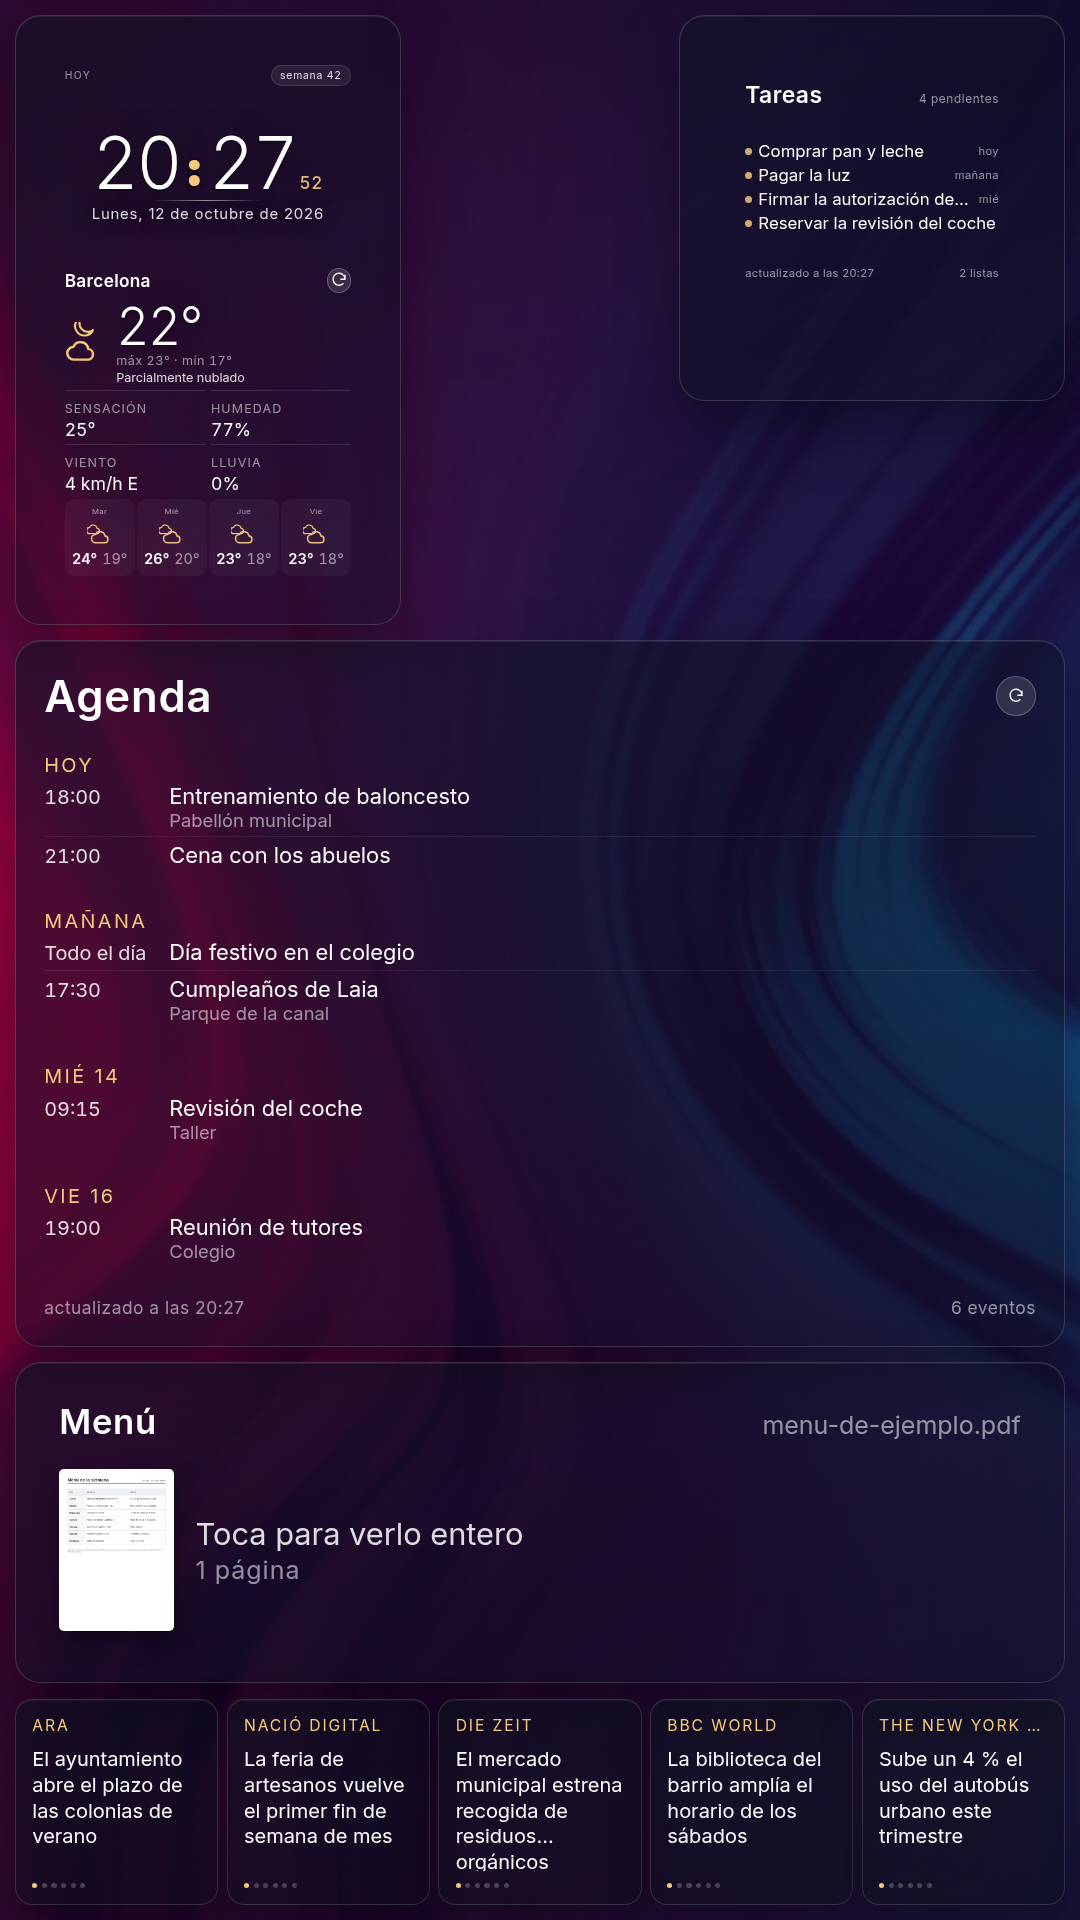
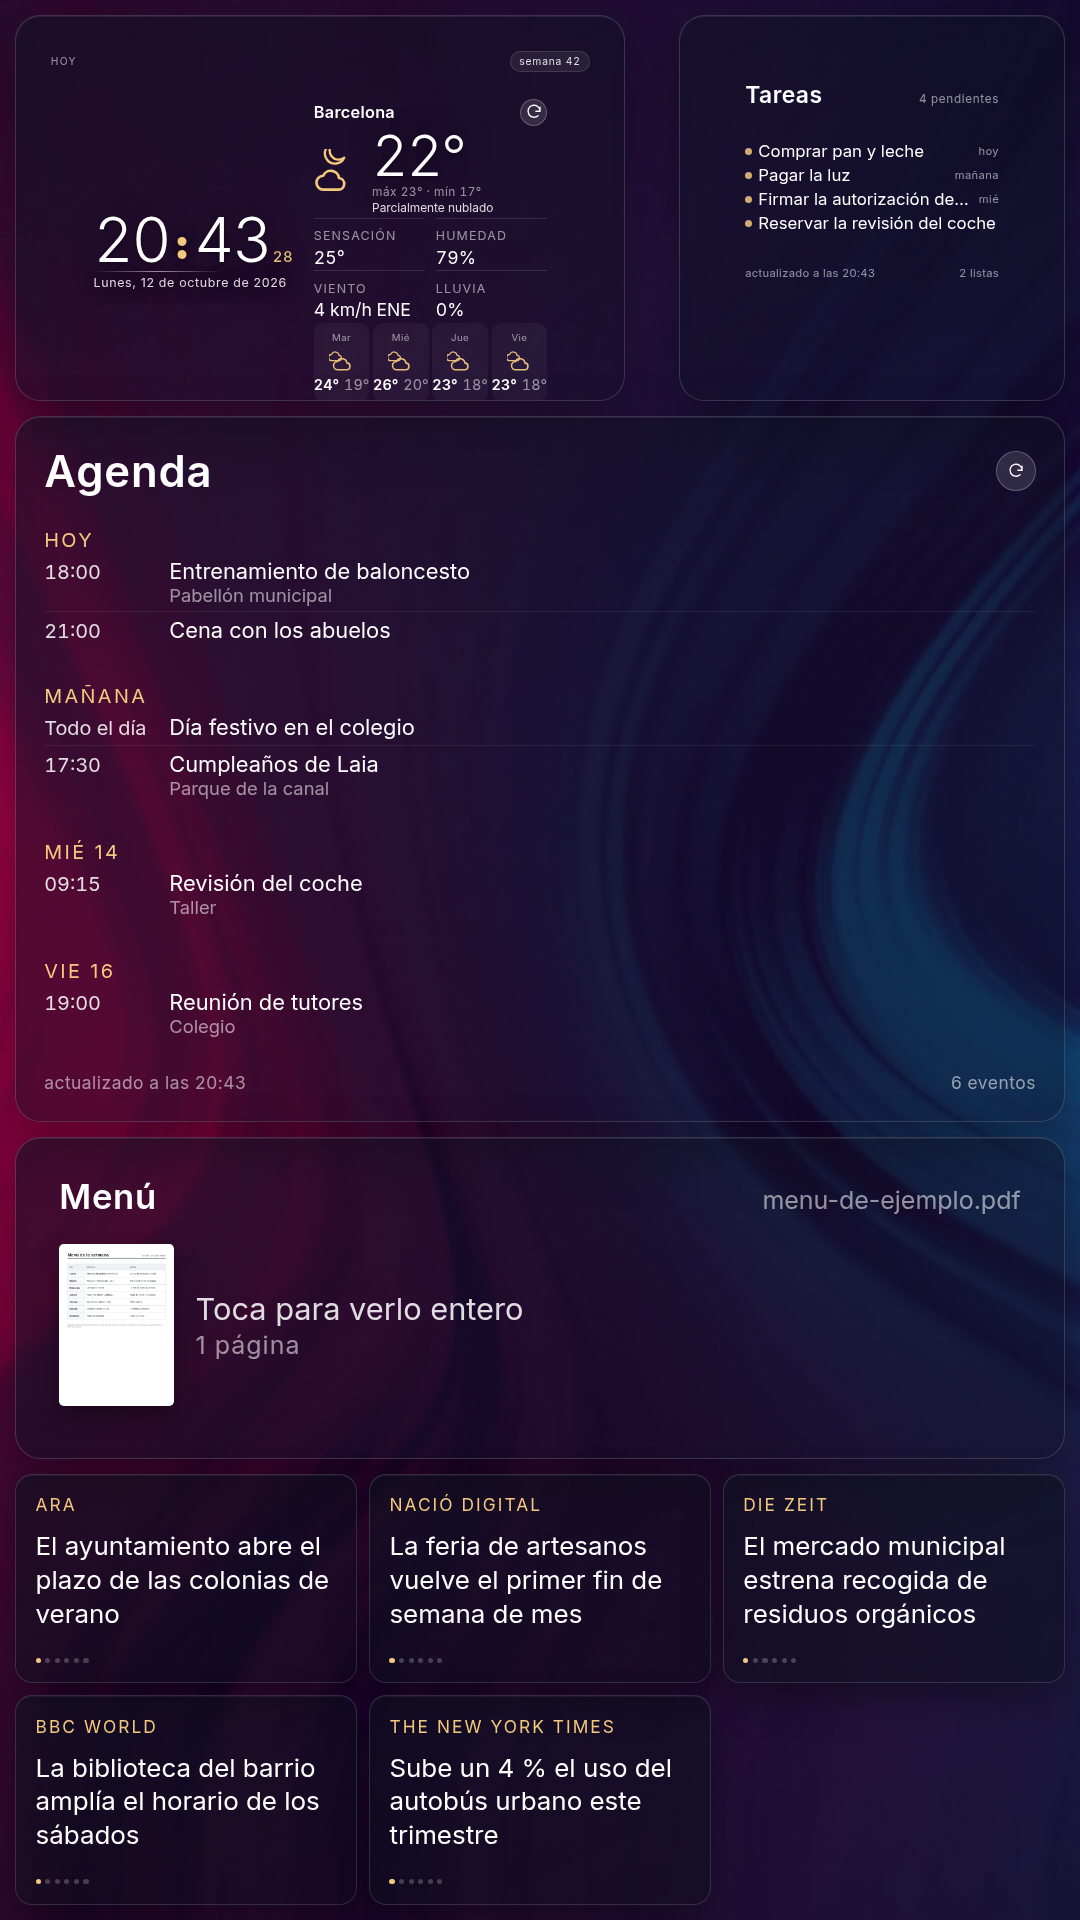
fix(layout): la tarjeta de la hora y el tiempo va apaisada (19 ancho x 12 alto)
Estaba al revés: la puse de 12 cm de ancho por 19 de alto, y tenía que ser 19 de ancho
por 12 de alto. Ahora el reloj va a la izquierda y el tiempo a la derecha, que es lo
que permite una tarjeta ancha; el detalle (sensación, humedad, viento, lluvia) y la
previsión siguen ahí, con cuatro días en la franja porque siete en esa columna se
pisaban.

De paso, como las dos tarjetas de arriba miden ahora 12 cm de alto, la fila queda a
ras: el hueco entre ellas pasa de 278 px a 54. Y la franja de titulares recupera el
alto que había perdido (de 206 a 431 px), así que vuelve a ir en dos columnas y con la
letra más grande.

Y las cadencias de refresco, pedidas tal cual:

| Dato         | Caché del servidor | Refresco del panel |
|--------------|--------------------|--------------------|
| Calendario   | 2 min              | 2 min              |
| Tareas       | 2 min              | 2 min              |
| Tiempo       | 15 min             | 15 min             |
| Noticias     | 15 min             | 15 min             |
| Menú (PDF)   | 5 min              | 5 min              |

Las dos columnas van a la par a propósito: si el panel pide cada 15 minutos y la caché
dura 2, la mitad de las peticiones no traen nada nuevo; y al revés, el panel enseñaría
datos viejos teniendo el backend frescos. Los titulares de cada tarjeta siguen rotando
cada 10 s, que es cosa aparte. Comprobado en la base de datos de la Pi tras desplegar:
[…]

diff --git a/src/App.css b/src/App.css
@@ -21,8 +21,8 @@
   position: fixed;
   inset: 0;
   display: grid;
-  grid-template-columns: var(--cm12) minmax(0, 1fr) var(--cm12);
-  grid-template-rows: var(--cm19) var(--cm22) var(--cm10) minmax(0, 1fr);
+  grid-template-columns: var(--cm19) minmax(0, 1fr) var(--cm12);
+  grid-template-rows: var(--cm12) var(--cm22) var(--cm10) minmax(0, 1fr);
   grid-template-areas:
     'now . tasks'
     'calendar calendar calendar'
@@ -1023,49 +1023,59 @@
   }
 }
 
-/* ---------------------------------------------------------------------------
-   Vertical (la pantalla de la Pi). Las dos tarjetas de arriba son cuadradas y
-   miden 12×12 cm, así que su contenido se mide con unidades de contenedor
-   (cqw/cqh): el reloj y las tareas quedan igual de bien a cualquier tamaño, sin
-   depender de la resolución de la pantalla.
---------------------------------------------------------------------------- */
-
+/* La tarjeta de la hora y el tiempo mide 19 cm de ancho por 12 de alto, o sea
+   apaisada: el reloj va a la izquierda y el tiempo a la derecha (uno debajo del
+   otro no caben en 12 cm). El contenido se dimensiona con unidades de contenedor
+   (cqw/cqh), así que no depende de la pantalla sino de la tarjeta. */
 .widget--now {
   container-type: size;
-  width: var(--cm12);
-  height: var(--cm19);
+  width: var(--cm19);
+  height: var(--cm12);
   justify-content: space-between;
-  gap: 0;
-  padding: 4.5cqw;
+  gap: 1.4cqh;
+  padding: 3.2cqw;
   text-align: left;
   overflow: hidden;
 }
 
-.now__label,
-.now__week {
-  font-size: 3.6cqw;
+.now__body {
+  flex: 1;
+  min-height: 0;
+  display: grid;
+  grid-template-columns: minmax(0, 1fr) minmax(0, 1.16fr);
+  gap: 3.6cqw;
+  align-items: center;
 }
 
-.clock {
-  gap: 1.2cqw;
+.now__label,
+.now__week {
+  font-size: 1.9cqw;
+}
+
+/* --- izquierda: el reloj --- */
+.widget--now .clock {
+  align-items: flex-start;
+  text-align: left;
+  gap: 0.9cqh;
 }
 
 .clock__time {
-  font-size: 25cqw;
+  font-size: 11.5cqw;
 }
 
 .clock__rule {
-  width: 38cqw;
+  width: 24cqw;
 }
 
 .clock__date {
-  font-size: 5.2cqw;
+  font-size: 2.3cqw;
 }
 
-/* La tarjeta mide 12×19 cm, así que el tiempo vuelve a enseñarlo todo: el
-   detalle (sensación, humedad, viento…) y la previsión de los próximos días. */
+/* --- derecha: el tiempo, con su detalle y la previsión --- */
 .widget--now .weather {
-  gap: 1.6cqw;
+  height: 100%;
+  justify-content: space-between;
+  gap: 0.9cqh;
 }
 
 .widget--now .weather__head {
@@ -1074,56 +1084,56 @@
 }
 
 .widget--now .weather__place {
-  font-size: 6cqw;
+  font-size: 3cqw;
 }
 
 .widget--now .weather__refresh {
-  width: 8.5cqw;
-  height: 8.5cqw;
+  width: 5cqw;
+  height: 5cqw;
 }
 
 .widget--now .weather__hero {
-  gap: 3cqw;
-  margin-top: 1.5cqw;
+  gap: 2.2cqw;
+  margin-top: 0;
 }
 
 .widget--now .weather__icon {
-  width: 15cqw;
+  width: 8.6cqw;
 }
 
 .widget--now .weather__value {
-  font-size: 18cqw;
+  font-size: 10.4cqw;
 }
 
 .widget--now .weather__extreme,
 .widget--now .weather__condition {
-  font-size: 4.4cqw;
+  font-size: 2.2cqw;
 }
 
 .widget--now .weather__details {
   grid-template-columns: repeat(2, minmax(0, 1fr));
-  gap: 1.6cqw 2.2cqw;
+  gap: 0.9cqh 2cqw;
 }
 
 .widget--now .weather__detail-term,
 .widget--now .weather__detail-value {
-  font-size: 3.1cqw;
+  font-size: 2cqw;
 }
 
 .widget--now .weather__daily {
-  gap: 0.8cqw;
+  gap: 0.7cqw;
 }
 
 .widget--now .weather__day-name,
 .widget--now .weather__day-value {
-  font-size: 2.7cqw;
+  font-size: 1.8cqw;
 }
 
 .widget--now .weather__day-icon {
-  width: 8.5cqw;
+  width: 5.6cqw;
 }
 
-/* Y solo cuatro días: con siete, en 12 cm de ancho los números se pisaban. */
+/* Cuatro días de previsión: siete en esta columna se pisaban unos con otros. */
 .widget--now .weather__day:nth-child(n + 5) {
   display: none;
 }
@@ -1244,26 +1254,27 @@
   font-size: 2.6cqw;
 }
 
-/* Los titulares se reparten lo que queda: con 19 + 22 + 10 cm por delante, la
-   franja se queda en unos 200 px, así que van todos en una fila. */
+/* Los titulares se reparten lo que queda: con 12 + 22 + 10 cm por delante les
+   quedan unos 430 px de alto, así que vuelven a ir en dos columnas y con la letra
+   más grande. */
 .news-strip {
-  gap: 0.8vmin;
-  grid-template-columns: repeat(var(--news-cols, 4), minmax(0, 1fr));
+  gap: 1.1vmin;
+  grid-template-columns: repeat(var(--news-cols, 2), minmax(0, 1fr));
 }
 
 .news {
-  gap: 1.1vmin;
-  padding: 1.5vmin;
+  gap: 1.3vmin;
+  padding: 1.8vmin;
 }
 
 .news__source {
-  font-size: 1.45vmin;
+  font-size: 1.6vmin;
 }
 
 .news__title {
-  font-size: 1.85vmin;
+  font-size: 2.4vmin;
   line-height: 1.3;
-  -webkit-line-clamp: 4;
+  -webkit-line-clamp: 3;
 }
 
 @media (orientation: landscape) {

diff --git a/server/src/config.ts b/server/src/config.ts
@@ -20,17 +20,17 @@ export const DB_PATH =
 export const DATA_DIR = path.dirname(DB_PATH)
 
 /** Cuánto vale una respuesta de Open-Meteo antes de volver a pedirla. */
-export const WEATHER_TTL_MS = Number(process.env.WEATHER_TTL_MS ?? 10 * 60 * 1000)
+export const WEATHER_TTL_MS = Number(process.env.WEATHER_TTL_MS ?? 15 * 60 * 1000)
 
 /** Cuántos días de calendario se piden. */
 export const CALENDAR_DAYS = Number(process.env.CALENDAR_DAYS ?? 7)
 
 /** Caché de calendario y tareas (Google aguanta bien, pero no hace falta ir cada vez). */
-export const CALENDAR_TTL_MS = Number(process.env.CALENDAR_TTL_MS ?? 5 * 60 * 1000)
-export const TASKS_TTL_MS = Number(process.env.TASKS_TTL_MS ?? 5 * 60 * 1000)
+export const CALENDAR_TTL_MS = Number(process.env.CALENDAR_TTL_MS ?? 2 * 60 * 1000)
+export const TASKS_TTL_MS = Number(process.env.TASKS_TTL_MS ?? 2 * 60 * 1000)
 
 /** Los feeds de noticias cambian, pero no tanto: veinte minutos va sobrado. */
-export const NEWS_TTL_MS = Number(process.env.NEWS_TTL_MS ?? 20 * 60 * 1000)
+export const NEWS_TTL_MS = Number(process.env.NEWS_TTL_MS ?? 15 * 60 * 1000)
 
 /** Titulares que se guardan por fuente (la pantalla enseña uno cada vez). */
 export const NEWS_ITEMS_PER_SOURCE = Number(process.env.NEWS_ITEMS_PER_SOURCE ?? 8)
@@ -69,7 +69,7 @@ export interface PdfSource {
 }
 
 /** Cada cuánto se vuelve a mirar si el PDF ha cambiado. */
-export const PDF_TTL_MS = Number(process.env.PDF_TTL_MS ?? 10 * 60 * 1000)
+export const PDF_TTL_MS = Number(process.env.PDF_TTL_MS ?? 5 * 60 * 1000)
 
 /** Ancho al que se rasterizan las páginas: de sobra para verlas a pantalla completa. */
 export const PDF_RENDER_WIDTH = Number(process.env.PDF_RENDER_WIDTH ?? 1500)

diff --git a/src/config.ts b/src/config.ts
@@ -9,17 +9,17 @@ export const APP_NAME = 'Family Dashboard'
 /** UI language used for dates and (later) the rest of the dashboard. */
 export const LOCALE = 'es-ES'
 
-/** Cada cuánto se le vuelve a pedir el tiempo al backend (el backend cachea 10 min). */
-export const WEATHER_REFRESH_MS = 10 * 60 * 1000
+/** Cada cuánto se le vuelve a pedir el tiempo al backend (que cachea 15 min). */
+export const WEATHER_REFRESH_MS = 15 * 60 * 1000
 
-/** Cada cuánto se refresca la agenda (el backend cachea 5 min). */
-export const AGENDA_REFRESH_MS = 5 * 60 * 1000
+/** Cada cuánto se refresca la agenda —calendario y tareas— (cachea 2 min). */
+export const AGENDA_REFRESH_MS = 2 * 60 * 1000
 
 /** Cuántos días de calendario pide el panel. */
 export const AGENDA_DAYS = 7
 
-/** Cada cuánto se le vuelven a pedir los titulares al backend (que cachea 20 min). */
-export const NEWS_REFRESH_MS = 10 * 60 * 1000
+/** Cada cuánto se le vuelven a pedir los titulares al backend (que cachea 15 min). */
+export const NEWS_REFRESH_MS = 15 * 60 * 1000
 
 /** Cada cuánto cambia el titular que enseña cada fuente de la franja de noticias. */
 export const NEWS_ROTATE_MS = 10 * 1000

diff --git a/src/components/NewsStrip.tsx b/src/components/NewsStrip.tsx
@@ -11,9 +11,9 @@ export function NewsStrip({ state }: { state: NewsState }) {
   const feeds = state.data?.feeds ?? []
   if (feeds.length === 0) return null
 
-  // La franja se queda en lo que dejan los 19 + 22 + 10 cm (unos 200 px de alto),
-  // así que todas las fuentes van en una fila y la rejilla reparte el ancho.
-  const columns = Math.min(feeds.length, 5)
+  // Con dos fuentes o menos, una columna; con tres o cuatro, dos; con más, tres.
+  // (La franja es alta otra vez, así que dos columnas de titulares grandes.)
+  const columns = feeds.length <= 2 ? feeds.length : feeds.length <= 4 ? 2 : 3
 
   return (
     <ul

diff --git a/src/components/NowWidget.tsx b/src/components/NowWidget.tsx
@@ -21,8 +21,11 @@ export function NowWidget({ now, weather }: NowWidgetProps) {
         <span className="now__week">semana {getIsoWeek(now)}</span>
       </header>
 
-      <ClockWidget now={now} />
-      <WeatherWidget state={weather} />
+      {/* La tarjeta es ancha (19 cm): el reloj a la izquierda, el tiempo a la derecha. */}
+      <div className="now__body">
+        <ClockWidget now={now} />
+        <WeatherWidget state={weather} />
+      </div>
     </section>
   )
 }

diff --git a/README.md b/README.md
@@ -102,7 +102,7 @@ vez). Los puntitos dicen por cuál va, de los ocho que guarda de cada feed.
 - **Las fuentes se configuran** con `PUT /api/settings` y viven en la base de datos
   del dispositivo, no en el código: el repositorio no lleva los medios de ninguna
   casa, y cambiar de fuentes no es tocar código.
-- **Una caché por fuente** (20 minutos): si un medio se cae, esa tarjeta lo dice en
+- **Una caché por fuente** (15 minutos): si un medio se cae, esa tarjeta lo dice en
   rojo y las otras cuatro siguen con sus titulares; si ya había titulares guardados,
   enseña los últimos buenos en vez de vaciarse.
 - Los titulares **no son enlaces** a propósito: en el kiosco, un toque dejaría el
@@ -155,13 +155,13 @@ centímetro** (`--cm` en `App.css`).
 
 Las dos tarjetas cuadradas miden su contenido con **unidades de contenedor**
 (`cqw`/`cqh`): el reloj se ve igual de grande a cualquier resolución, porque no
-depende de la pantalla sino de la tarjeta. Con 12 cm de alto, dentro solo cabía lo
-esencial (la hora, la fecha y el tiempo de ahora); **en la fase 8 la tarjeta creció a
-12 × 19 cm y volvieron la previsión y el detalle**. Las medidas de la tabla también se
-revisaron en la fase 8.
+depende de la pantalla sino de la tarjeta. A 12 cm de alto dentro solo cabía lo
+esencial (la hora, la fecha y el tiempo de ahora); **en la fase 8 la tarjeta pasó a ser
+apaisada (19 × 12 cm) y volvieron la previsión y el detalle**. Las medidas de la tabla
+también se revisaron en la fase 8.
 
-En apaisado las medidas físicas no caben (12 + 10 cm se comen los 1080 de alto), así
-que la unidad se encoge y las tarjetas vuelven a medir lo que piden sus contenidos.
+En apaisado las medidas físicas no caben (12 + 22 + 10 cm se comen los 1080 de alto),
+así que la unidad se encoge y las tarjetas vuelven a medir lo que piden sus contenidos.
 
 ### Fase 8 — fondo de vídeo y medidas nuevas ✅
 
@@ -188,19 +188,21 @@ día va justa, lo primero que hay que bajar es el tamaño del vídeo.
 
 El reparto cambia de medidas:
 
-| Zona | Fase 7 | Fase 8 |
-|------|--------|--------|
-| Hora y tiempo | 12 × 12 cm | **12 × 19 cm** |
+| Zona | Fase 7 | Fase 8 (final) |
+|------|--------|----------------|
+| Hora y tiempo | 12 × 12 cm | **19 cm de ancho × 12 de alto** |
 | Tareas | 12 × 12 cm | 12 × 12 cm (pegada arriba) |
 | Agenda | ancho completo, alto del contenido | ancho completo, **22 cm** |
 | Menú (el PDF) | ancho de la agenda × 10 cm | igual |
-| Titulares | lo que queda | lo que queda (unos 200 px, **todos en una fila**) |
+| Titulares | lo que queda | lo que queda (unos 430 px, **dos columnas**) |
 
-Con 19 cm de alto, la tarjeta del tiempo vuelve a enseñar lo que a 12 cm no cabía: el
-detalle (sensación, humedad, viento, lluvia) y la previsión de los próximos días —
-**cuatro días**, porque siete en 12 cm de ancho se pisaban unos a otros. Y la agenda,
-al ser tan alta, reparte sus días por todo el alto para no quedarse medio vacía en una
-semana tranquila.
+La tarjeta de la hora y el tiempo acabó **apaisada** (19 × 12), no alta: el reloj va a la
+izquierda y el tiempo a la derecha. Al ser ancha, el tiempo vuelve a enseñar lo que a
+12 cm no cabía —el detalle (sensación, humedad, viento, lluvia) y la previsión de los
+próximos días—, con **cuatro días** en la franja: siete en esa columna se pisaban unos
+a otros. Y como las dos tarjetas de arriba miden 12 cm de alto, la fila queda a ras y el
+hueco que antes sobraba entre ellas (278 px) se queda en 54. La agenda, al ser tan alta,
+reparte sus días por todo el alto para no quedarse medio vacía en una semana tranquila.
 
 ---
 
@@ -316,9 +318,22 @@ la tarjeta para escribir *"actualizado a las 14:48"* o *"sin conexión"*.
 `data/dashboard.sqlite` (WAL), con migraciones versionadas al arrancar:
 
 - `cache(key, payload, source, fetched_at, expires_at)` — respuestas de APIs con
-  su caducidad. TTL: meteo **10 minutos** (`WEATHER_TTL_MS`), calendario y tareas
-  **5 minutos** (`CALENDAR_TTL_MS`, `TASKS_TTL_MS`) y noticias **20 minutos**
-  (`NEWS_TTL_MS`), con una entrada por fuente.
+  su caducidad, con una entrada por fuente de noticias. Las cadencias están en
+  `server/src/config.ts` y el panel las pide a juego desde `src/config.ts`:
+
+  | Dato | Caché en el servidor | Cada cuánto lo pide el panel |
+  |------|----------------------|------------------------------|
+  | Calendario | 2 min (`CALENDAR_TTL_MS`) | 2 min (`AGENDA_REFRESH_MS`) |
+  | Tareas | 2 min (`TASKS_TTL_MS`) | 2 min (el mismo temporizador) |
+  | Tiempo | 15 min (`WEATHER_TTL_MS`) | 15 min (`WEATHER_REFRESH_MS`) |
+  | Noticias | 15 min (`NEWS_TTL_MS`) | 15 min (`NEWS_REFRESH_MS`) |
+  | Menú (PDF) | 5 min (`PDF_TTL_MS`) | 5 min (`PDF_REFRESH_MS`) |
+
+  Las dos columnas van a la par a propósito: si el panel pide cada 15 minutos y la
+  caché dura 2, la mitad de las peticiones no traen nada nuevo; y al revés, el panel
+  enseñaría datos viejos teniendo el backend frescos. También se relee al volver a
+  estar visible o en línea. Los titulares de cada tarjeta **rotan cada 10 s**
+  (`NEWS_ROTATE_MS`), que es cosa aparte del refresco.
 - `settings(key, value, updated_at)` — la localidad del tiempo (`weather.place`),
   las fuentes de noticias (`news.sources`) y de dónde sale el PDF (`pdf.source`).
   Las tres cosas viven aquí y no en el código: cada casa pone las suyas.
@@ -350,7 +365,7 @@ curl -X PUT -H 'content-type: application/json' \
   http://localhost:4173/api/settings
 ```
 
-El panel refresca los titulares cada 10 minutos, así que un cambio de fuentes tarda
+El panel refresca los titulares cada 15 minutos, así que un cambio de fuentes tarda
 como mucho eso en verse; reiniciando el kiosco se ve al momento.
 
 Y de dónde sale el PDF (una carpeta —se enseña el más reciente— o un fichero
